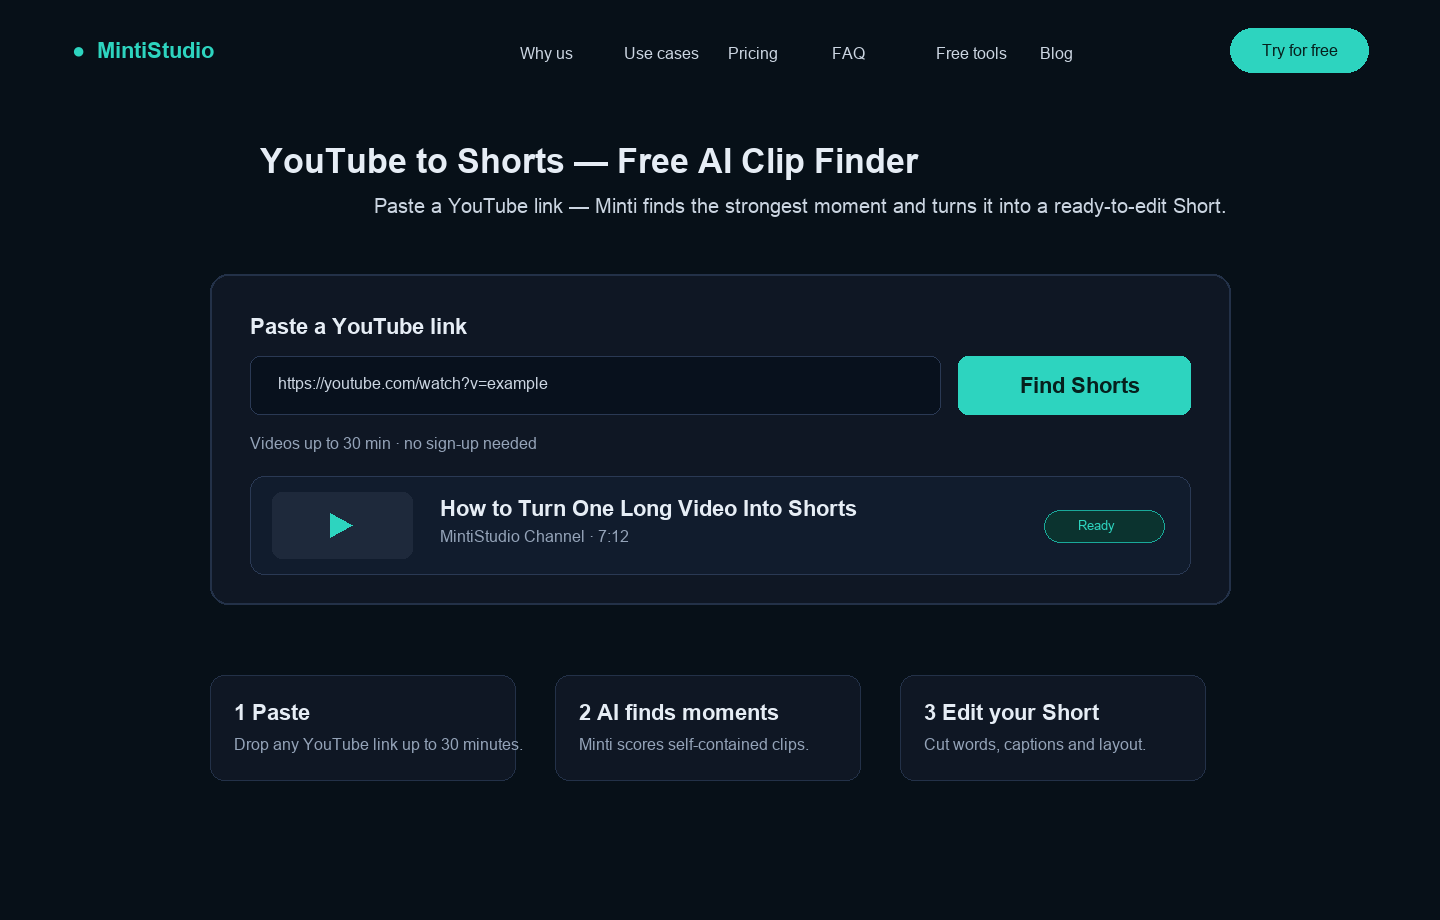
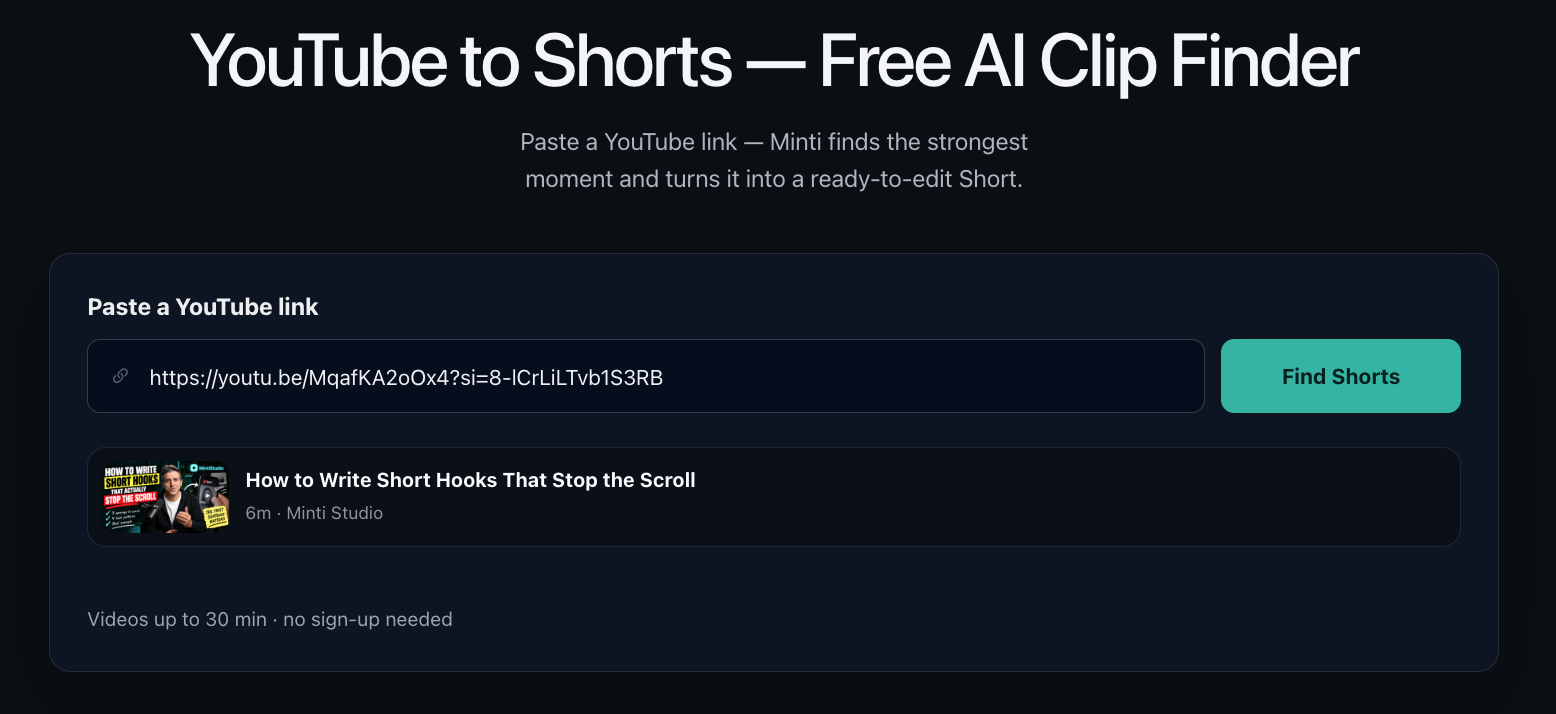
Update free tool blog images

diff --git a/app/video_shorts/templates/free_tool_youtube_to_shorts.html b/app/video_shorts/templates/free_tool_youtube_to_shorts.html
@@ -246,6 +246,9 @@
       color: rgba(148, 163, 184, 0.72);
     }
     .mv-youtube-submit {
+      display: inline-flex;
+      align-items: center;
+      justify-content: center;
       min-width: 180px;
       height: 56px;
       min-height: 56px;

diff --git a/app/video_shorts/blog_pipeline/manual_posts/free-youtube-to-shorts-tool.md b/app/video_shorts/blog_pipeline/manual_posts/free-youtube-to-shorts-tool.md
@@ -58,6 +58,8 @@ Create a free account (no credit card) to download your Short, or connect your c
 
 ![MintiStudio free YouTube to Shorts tool with a pasted YouTube link and video preview](/video_shorts/static/img/blog/free-youtube-to-shorts-tool/1-free-tool-landing.png "Paste any YouTube link up to 30 minutes [screenshot]")
 
+![MintiStudio free YouTube to Shorts processing card showing each creation step](/video_shorts/static/img/blog/free-youtube-to-shorts-tool/2-processing.png "Follow each step while Minti works [screenshot]")
+
 ## Framing that follows the people on screen
 
 A wide horizontal shot doesn't fit a vertical screen by default. Cropping the middle often cuts someone out.
@@ -71,8 +73,6 @@ The tool frames the Short around the faces it finds:
 :::tip
 Interviews and podcasts with two speakers are where automatic framing saves the most time. Check the split layout on your first Short before you change anything by hand.
 :::
-
-![MintiStudio editor with a rendered vertical Short, transcript editing and AI clip suggestions](/video_shorts/static/img/blog/free-youtube-to-shorts-tool/2-generate-rendered-short.png "Your first Short, ready to edit [screenshot]")
 
 ## What makes the AI pick a moment
 
@@ -102,6 +102,8 @@ Here, the transcript is the editor:
 - fix a misheard word in the captions
 - shorten the setup so the payoff comes first
 - change the title before you regenerate
+
+![MintiStudio editor with transcript word cuts and a rendered Short preview](/video_shorts/static/img/blog/free-youtube-to-shorts-tool/3-generate-rendered-short.png "Cut words in the transcript and they're cut from the Short [screenshot]")
 
 :::compare Editing a Short
 clips | Timeline scrubbing for every cut | Delete words in the transcript | up
